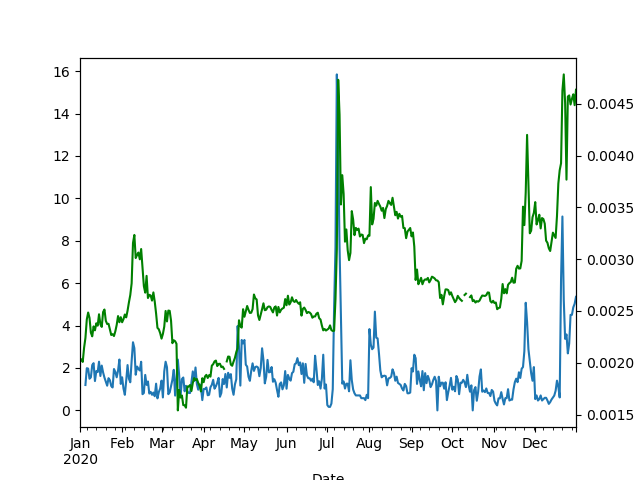
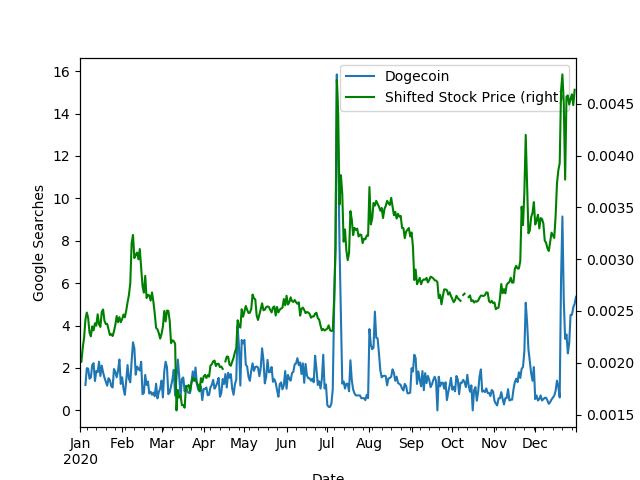
Second graph

Changed region(s): [[0.125, 0.125, 0.9062, 0.8438], [0.0312, 0.375, 0.0938, 0.625]]

diff --git a/create_graph.py b/create_graph.py
@@ -12,12 +12,19 @@ file_name =  SYMBL + key_word + str(start_year)[2:] + '-' + str(end_year)[2:]
 df = pd.read_pickle("./pickles/" + file_name + ".pkl")
 
 searches = df.keys()[0]
+stock_shift = df.keys()[1]
+
+df = df.rename(columns = {searches: key_word, stock_shift: 'Shifted Stock Price', 'Open': 'Stock Price'})
+searches = key_word
+stock_shift = 'Shifted Stock Price'
 plt.figure()
-df[searches].plot(label = 'testefwef')
-temp = 'Open-25'
+df[searches].plot(legend = True, ylabel = 'Google Searches')
+#temp = 'Open-25'
 #ax.set_ylabel('Google Searches')
 
-df['Open'].plot(secondary_y=True, style='g')
+df[stock_shift].plot(secondary_y=True, style='g', legend = True)
+#df.plot(secondary_y=True, style='g')
+
 
 file_name = SYMBL + '.png'
 plt.savefig(file_name)
